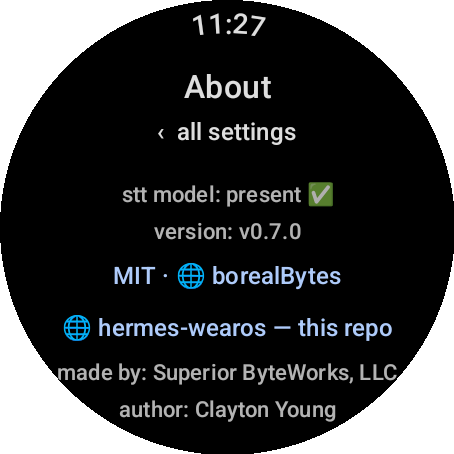
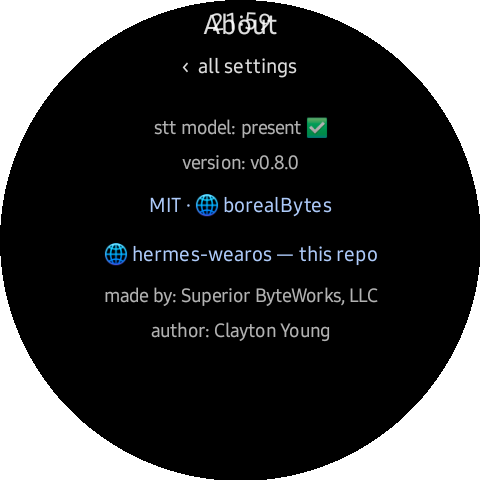
docs(demo): v0.8 re-shoot — settings family + honest fixture paths
01/10/11/14a/14b/15/18/19/36/42/43/47/55 re-captured on the watch: About
now reads v0.8.0, the gateways pair ships with the FQDN/token bands
mosaic-redacted (OCR re-scan zero hits), the orb shot carries the LIVE
run dial (red stop center), and the font-scale pair rides the hook.
RenderCases av fixture moved to /tmp/clip.mp4 + /tmp/tone.opus — the
paths DEMO.md §6 actually stages; the old machine-local /run/media/user
path 403'd through watchkit img_roots.

diff --git a/app/src/main/java/dev/hermes/wearos/domain/RenderCases.kt b/app/src/main/java/dev/hermes/wearos/domain/RenderCases.kt
@@ -87,8 +87,8 @@ enum class RenderCase(val id: String, val markdown: String) {
     Av(
         "av",
         "The comfy render is ready, and the sting is mixed:\n\n" +
-            "MEDIA:/run/media/user/Data/comfy/projects/hermes-wear-demo/outputs/muxed/demo-vertical-v0.6.0-song-d.mp4\n\n" +
-            "MEDIA:/tmp/medtest.wav\n\n" +
+            "MEDIA:/tmp/clip.mp4\n\n" +
+            "MEDIA:/tmp/tone.opus\n\n" +
             "Tap a card for fullscreen; back returns here.\n",
     ),
     Steps(

diff --git a/tools/demo/vision_gate.py b/tools/demo/vision_gate.py
@@ -16,7 +16,7 @@ S = os.path.join(os.path.dirname(os.path.abspath(__file__)), "..", "..", "docs",
 # Claims rewritten 2026-11-01 for the v0.6.0 media generation: every claim describes ONLY
 # what the shipped shot actually shows (pixel-verified against the bank before writing).
 CLAIMS = {
- "01-orb-cluster.png": "A watch home screen with a dark chat behind shows a circular avatar orb at the bottom-center (engraved black-haired girl portrait) ringed by small circular lane buttons, including a green checkmark, a keyboard, and a pink brain icon.",
+ "01-orb-cluster.png": "A watch chat shows a circular dial overlay: a large central red orb with a white stop square, ringed by small circular lane buttons including a keyboard, a red-struck speaker, a settings gear, and a pink brain icon.",
  "02-chat-markdown.png": "A watch chat reply shows a paragraph in which the single word 'tide' is BOLD, above a four-item bulleted list with dot bullets about harbor conditions (Water level, Wind, Two slips, Fog).",
  "02b-chat-table.png": "A watch chat reply renders a markdown table titled 'Slips' with a header row 'Slip' and 'Depth', a rule under the headers, and data rows B-12 14m, B-14 12m, B-16 9m.",
  "03-image-card.png": "A watch chat shows an inline image card rendering a bar chart titled '3-DAY WATER TEMP F' with three blue bars labelled Fri 61, Sat 60 and Sun 59.",
@@ -26,17 +26,17 @@ CLAIMS = {
  "07-stop-running.png": "A watch chat shows a live run: a blue user prompt about writing four hundred words, a yellow 'thinking...' status line, and a red circular button containing a white stop-square glyph.",
  "08-sessions.png": "A Sessions screen titled 'Sessions · 30' with a search field, a row of filter chips, and session rows below.",
  "09-resumed.png": "A chat screen shows a blue user prompt containing 'sudo rm -rf /etc/apt' and an assistant reply beginning 'The call ran but Hermes blocked it', under a 'history · 2 messages' banner.",
- "10-settings-body.png": "A settings page titled 'Body tools' lists rows Heart rate, Steps & activity, Sleep, Blood oxygen, Location, each with a round toggle switched on (yellow).",
- "11-gateways.png": "A Gateways settings screen titled Gateways with '‹ all settings' shows the transport line 'wifi(wlan0) · validated', a selected gateway row whose name is a mosaic-blurred band with a filled radio, a 'harbor-lab' row with IP 192.168.10.99:8642 and a red ✕, a '+ add' button, and the 'Base URL (active)' editor label along the bottom.",
+ "10-settings-body.png": "A settings page titled 'Watch' with a 'Body tools' section lists rows Heart rate, Steps & activity, Sleep and Blood oxygen, each with a round toggle at the right of its label.",
+ "11-gateways.png": "A Gateways settings screen titled Gateways with '‹ all settings' shows the transport line 'wifi(wlan0) · validated', a selected 'borealbytes.github' row with a mosaic-blurred FQDN sub-line and green dot, a 'harbor-lab' row with a grey dot, an '+ add' button, and a pixelated Base URL field band at the bottom.",
  "12-keyboard.png": "A watch prompt editor shows a draft line 'Write me a richly detailed essay' above the system QWERTY keyboard with suggestion chips and a blue send button.",
  "13-launcher-icon.png": "A smartwatch app grid where the top-left icon is a black-and-white engraved spirit girl portrait, next to a rocket-style icon and standard app icons.",
- "14a-fontscale-min.png": "One watch chat screen shows an entire exchange together: grey answer text containing 'ran clean (exit 0', a blue user prompt with 'echo wrist-offscreen-demo && date', a timestamp 'Sun Nov 1 05:12:35 PM EST 2026', a second blue prompt with 'sudo rm' followed by a pixelated path, and further grey answer text containing 'A terminal is required to authenticate'.",
- "14b-fontscale-max.png": "A watch chat screen rendered at very LARGE text: only a few short lines of an answer ('Done — rm -rf', 'ran clean (exit 0', 'the path no longer') fit on screen.",
- "15-settings-tail.png": "A settings list tail shows a 'Watch' row with subtitle mentioning 'Body tools' and notifications, and an 'About' row showing version text 'v0.7.0' with 'stt model' beneath.",
+ "14a-fontscale-min.png": "A watch chat rendered at very SMALL text shows the whole blue user prompt about the terminal tool and a yellow 'thinking...' line with lots of empty space around them.",
+ "14b-fontscale-max.png": "A watch chat rendered at very LARGE text shows only a few words of the blue user prompt, wrapping across most of the screen.",
+ "15-settings-tail.png": "A settings list tail shows a 'Watch' row with subtitle 'body tools 5 on · notifications', and an 'About' row showing version text 'v0.8.0' with 'stt model' beneath.",
  "16-edit-resend.png": "A bottom sheet quotes the sent message 'Write me a richly detailed essay of at least 500…' and offers buttons: '✎ Edit & resend' (highlighted blue), 'Copy', and 'close'.",
  "17-agent-picker.png": "An agent list shows pill buttons for profiles: redridge-treasurer, research, resume-builder, squawkbox, wear, and 'wear-demo' highlighted in blue as selected.",
- "18-settings-home.png": "A screen titled Settings shows rows: '🌐 Gateways' with subtitle '2 saved · ✓' followed by a mosaic-blurred hostname, '🔊 Voice out' with subtitle 'on · 1.67×', and '🎙 Voice in'.",
- "19-settings-display.png": "A Display settings page scrolled down shows 'Launch splash' with a blue 'Video' chip beside a 'Static' chip, a blue 'Pick media' button, 'Media: built-in', 'Pinch text ×1.00' with 'pinch the chat to resize text', and an 'Orb dial — drag 8 ways' section with rows '12:00 keyboard' and mute.",
+ "18-settings-home.png": "A screen titled Settings shows rows: '🌐 Gateways' with subtitle '1 saved · ✓ borealbytes.github', '🔊 Voice out' with subtitle 'on · 1.01×', and '🎙 Voice in'.",
+ "19-settings-display.png": "A Display settings page shows a 'Markdown rendering' toggle switched on (yellow), a 'Launch splash' section with a blue 'Video' chip beside a grey 'Static' chip, and a blue 'Pick media' button.",
  "21-session-search.png": "A search screen shows 'harbor' in a text field with a ✕ button, a heading 'Search · 10', and result rows, the top one titled 'Harbor brief for the marina log.' with a watch icon beside it.",
  "22-session-sheet.png": "A sheet opened on the session row 'Design blog post writer agent' shows buttons: '⑂ fork & open' (blue), 'archive' with a box icon, 'delete…' in red, and 'close'.",
  "23-archived-chip.png": "A Sessions screen titled 'Sessions · 25' shows filter chips at top (all, computer, wear-dem, and an archived chip) above a row titled 'Marina log brief (smoke)'.",
@@ -58,24 +58,24 @@ CLAIMS = {
  "39-karaoke-follow.png": "A watch chat filled with long prose (numbered paragraphs about a harbor dusk and night market) shows the avatar orb at the bottom ringed by a glowing red circle while the text scrolls to the sentence being spoken.",
  "40-stt-source.png": "A Voice-in settings page shows a gateway engine picker with three pill rows: a dark '★ gateway default · parakeet', a dark 'whisper · text streaming ✗ · final when you stop' row, and a blue-highlighted 'parakeet · text streaming ✓' row.",
  "41-edge-circle-pair.png": "Two round watch frames of a 'Chats · wear-demo' list side by side: the left frame labeled 'BEFORE — LIST TOP' shows the header, a '＋ new' button and the row 'Generate Aurora Borealis photo v…'; the right frame labeled 'AFTER ONE RIM DRAG' has scrolled down so the header and new button are off-screen and 'Generate Aurora Borealis photo v…' now sits at the very top with several lower rows visible.",
- "42-gateways-multi.png": "A Gateways page shows the transport line 'wifi(wlan0) · validated', a selected row (filled radio, mosaic-blurred hostname, green dot, blurred IP ending 642) with a pencil and a red ✕, and below it a 'harbor-lab' row with a pencil, red ✕ and IP 192.168.10.99:8642.",
- "43-agent-keys.png": "A list of agent profile rows (perplexity-archive, redridge-treasurer, research, resume-builder, squawkbox, wear, wear-demo) each shows a green '✓ key' badge on the right edge.",
+ "42-gateways-multi.png": "A Gateways page shows the transport line 'wifi(wlan0) · validated', a selected 'borealbytes.github' row (filled radio, mosaic-blurred FQDN sub-line, green dot) with a pencil and red ✕, and below it a 'harbor-lab' row with a pencil and red ✕, above a pixelated Base URL field band.",
+ "43-agent-keys.png": "A list of agent profile rows (resume-builder, squawkbox, wear, wear-demo, weather) each shows a green '✓ key' badge on the right edge, above a 'learn from watchkit' button.",
  "44-notify-desktop-approval.png": "A watch notification card titled '⚠ Report uptime load aver…' shows body text 'waiting for approval · terminal {\"command\": \"uptime\"}' with a spirit avatar badge at the top.",
  "45-notify-desktop-settled.png": "A watch screen shows a large grey notification card titled 'Terminal sleep 45' at 11:54 with body text 'Answer ready on the desktop · open to read' and the spirit avatar above it.",
  "46-attention-pair.png": "Two round watch frames side by side: the left shows long prose chat text with a red-ringed orb and a caption pill 'LIVE ON GLASS · SPOKEN, NO NOTIFY'; the right shows a notification card 'Terminal sleep 45 — Answer ready on the desktop' with caption pill 'OFF THE WRIST · NOTIFIED, SILENT'.",
- "47-about-screen.png": "A page titled About (with '‹ all settings' below the title) shows the lines 'stt model: present ✅', 'version: v0.7.0', 'MIT · 🌐 borealBytes', '🌐 hermes-wearos — this repo', 'made by: Superior ByteWorks, LLC', and 'author: Clayton Young'.",
- "48-media-cards.png": "A watch chat shows two media cards stacked in the answer flow: the top one labeled 'clip.mp4' with 'tap to play · fullscreen' over a colorful video thumbnail, the second labeled 'tone.opus' with a music-note glyph.",
+ "47-about-screen.png": "An About settings page shows 'stt model: present' with a green check, 'version: v0.8.0', a 'MIT · borealBytes' line, a 'hermes-wearos — this repo' link row, and 'made by' / 'author' lines.",
+ "48-media-cards.png": "A watch chat shows generated media as inline cards: a video card with a clapperboard icon and a blue filename ending '-song-d.mp4' with 'tap to play · fullscreen', and below it an audio card with a music-note icon and 'medtest.wav' plus 'tap to listen'.",
  "49-video-player.png": "A full-screen video player shows SMPTE color bars (olive, teal, green, purple, maroon stripes) with media3 transport controls (a rewind arrow chip, a white pause circle in the middle, a forward arrow chip), a progress bar, the time 00:06, and a fading volume readout '60%' beside a small spirit avatar.",
  "50-gif-card.gif": "A watch chat shows an image card of bright test color bars cycling beneath the user prompt containing 'gif probe' and '.gif)'; a 'GIF' chip labels the card and the engraved spirit avatar sits at the bottom.",
  "51-video-pinched.png": "A full-screen video player shows a few giant color-bar stripes (teal, green, magenta, black) magnified far past their original size, filling the whole round screen — the zoomed state of the same SMPTE clip.",
  "52-audio-player.png": "A full-screen audio player sheet shows a large white circular play button, a music-note glyph with the label 'tone.opus' beneath it, and a white progress/transport bar at the bottom.",
  "53-handoff-adopted.png": "A watch chat shows a small orange line reading '2 messages · from' near the top, then a blue user prompt 'Gate code for the Saturday walkthrough is ORCHID. Note it.', a grey reply 'Gate code noted: ORCHID.', a second blue prompt 'What is the gate code? Answer in exactly one word.', and the answer 'ORCHID' with the spirit avatar.",
- "54-tool-activity.png": "A watch chat shows a user request to answer with the kernel release, a collapsible activity card row reading '1 step · done' with an expand affordance and a listed command line containing 'uname -r', and below it the white answer 'The kernel release is 7.0.0-38-generic.'.",
+ "54-tool-activity.png": "A watch chat shows a collapsible activity card reading '6 steps · 1 failed <expand>' with a listed command line 'pytest -q tests/test_maps.py', and below it the white answer 'All green now.'",
  "56-voicein-picker.png": "A Voice-in settings page shows three source pills: 'Local Vosk · offline · on-watch', 'System · OFF-DEVICE · Google', and a blue-highlighted 'Gateway · streaming · parakeet · auto-local' row with 'text streaming' checked below.",
  "57-voicein-not-installed.png": "A Voice-in settings page shows the offline model section reporting the model missing or not installed below the gateway engine pills.",
  "58-voicein-downloading.png": "A Voice-in settings page shows the offline model row mid-install reading 'downloading 39% · 16 MB of 41 MB' below the gateway engine pills.",
  "59-voicein-installed.png": "A Voice-in settings page shows the offline model section reading 'installed · works offline' below the gateway engine pills.",
- "55-tailnet-status.png": "A Tailnet page titled Tailnet with '‹ gateways' shows a 'Status' heading, a green 'tailnet up' line whose FQDN is a mosaic-blurred band, a green '.net · gateway' line ending 'online' with a blurred IP, and a node section whose name line is blurred, with the loopback port number visible.",
+ "55-tailnet-status.png": "A Tailnet status page shows the section 'Status' with 'tailnet up' and two lines whose hostname and peer-IP segments are covered by mosaic bands, a 'Use tailnet' label, and a 'Node name' field below.",
 }
 
 def ask(name, claim):
